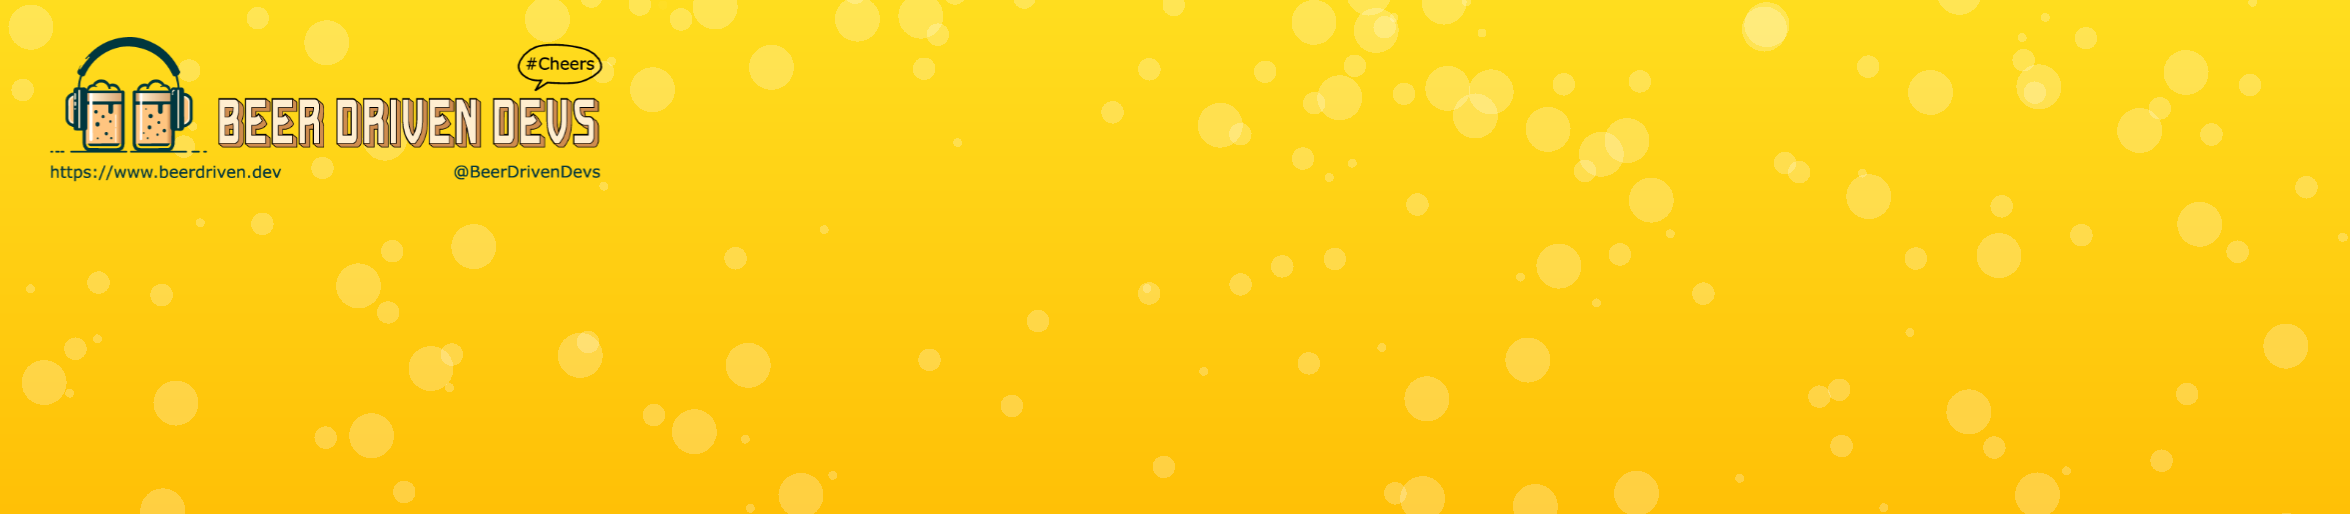
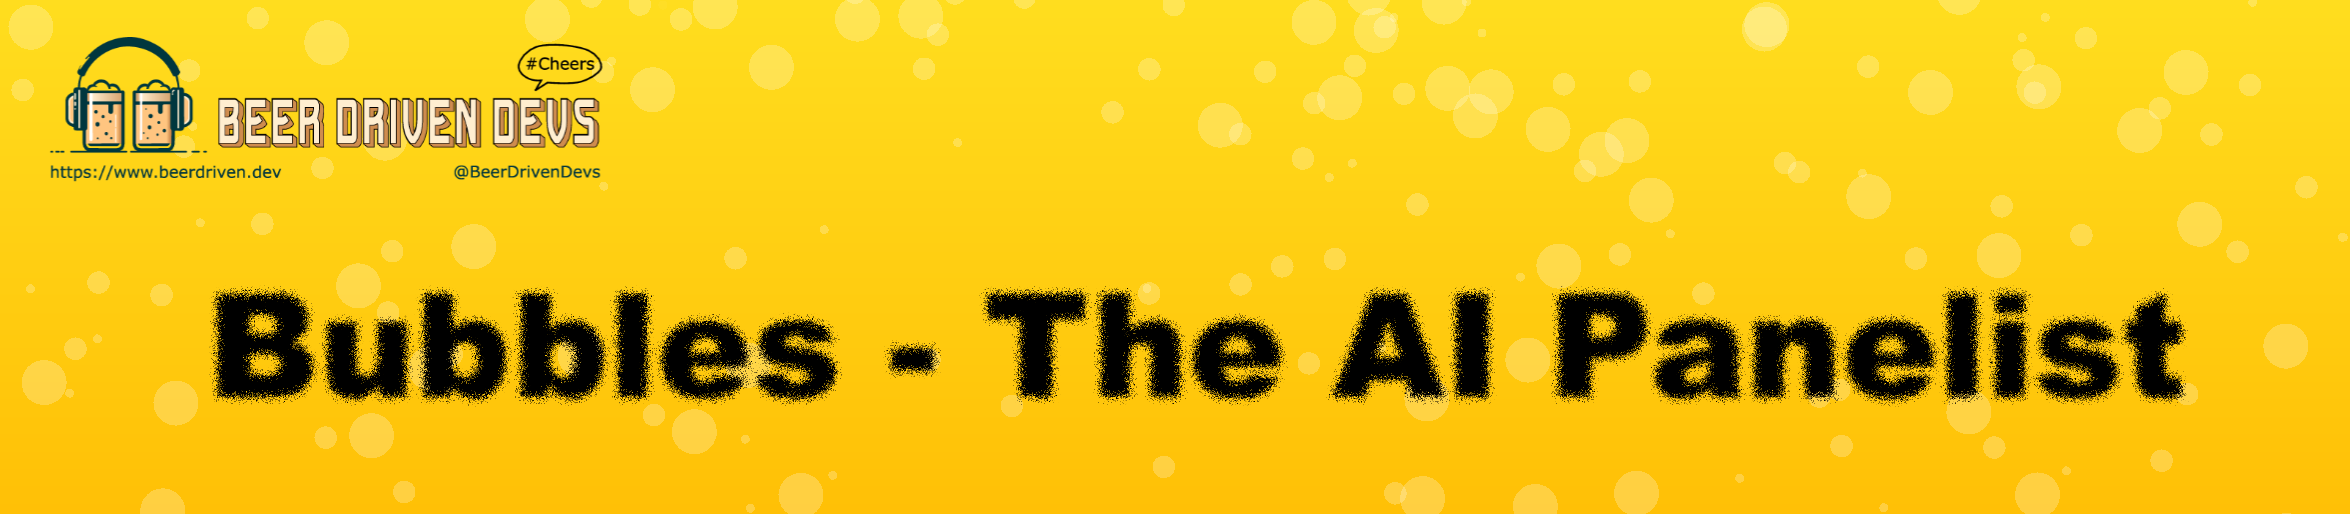
Add header image to README and update formatting

Changed region(s): [[0.4038, 0.5603, 0.9319, 0.7782], [0.0932, 0.5603, 0.4038, 0.7782]]

diff --git a/README.md b/README.md
@@ -1,3 +1,5 @@
+![](/assets/header.png)
+
 # AI Panelist – “Bubbles”
 
 A lightweight, local-first AI “panelist” built for a live Beer Driven Devs event.
